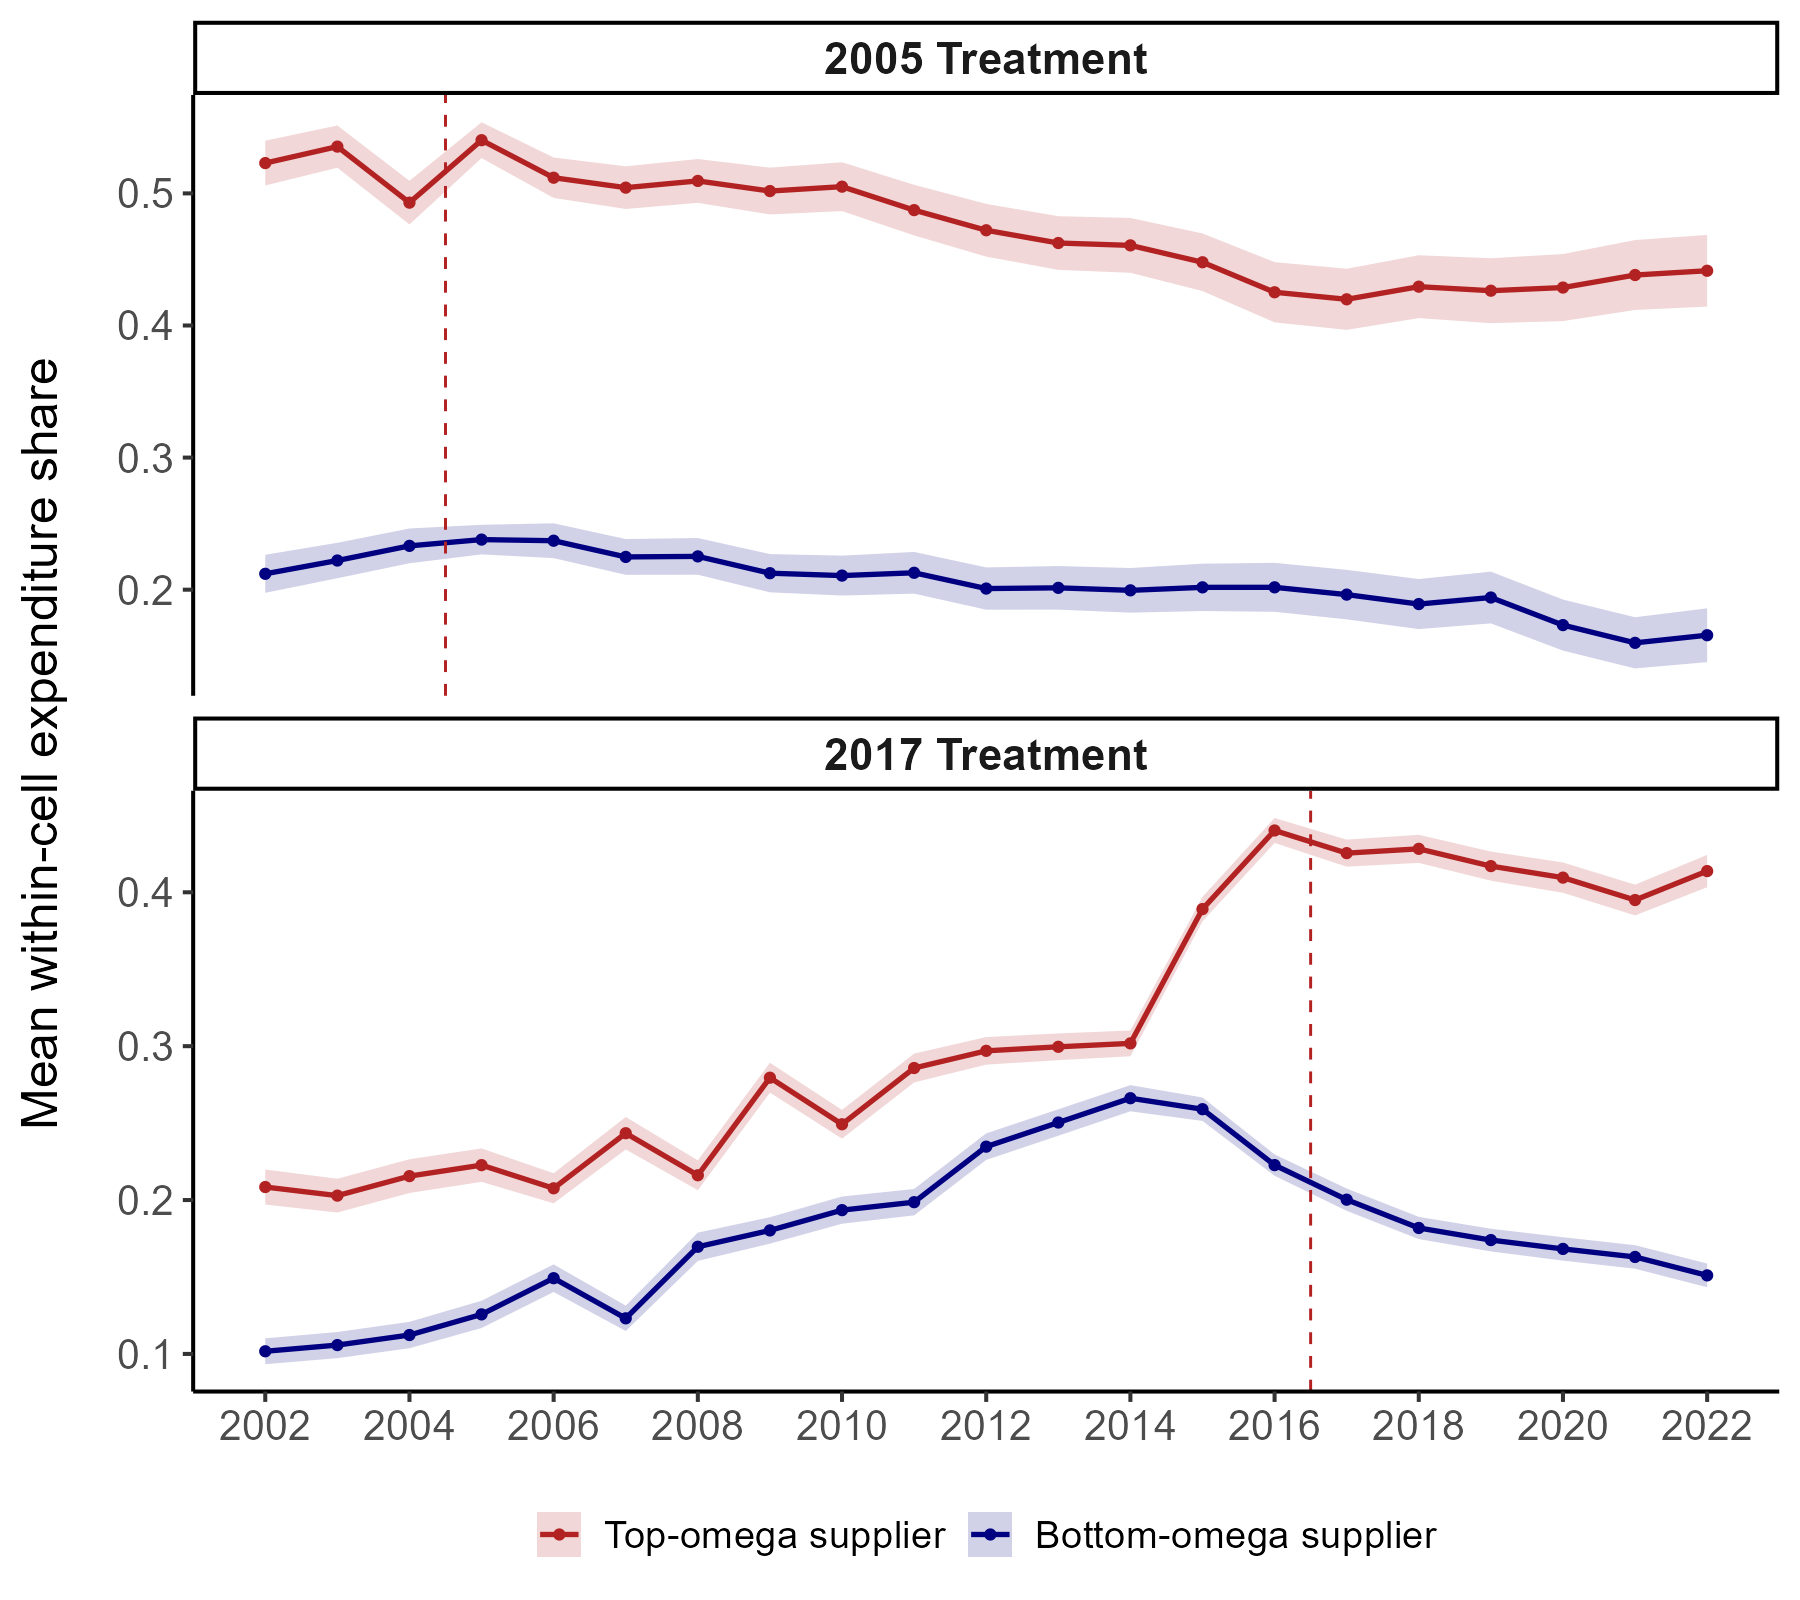
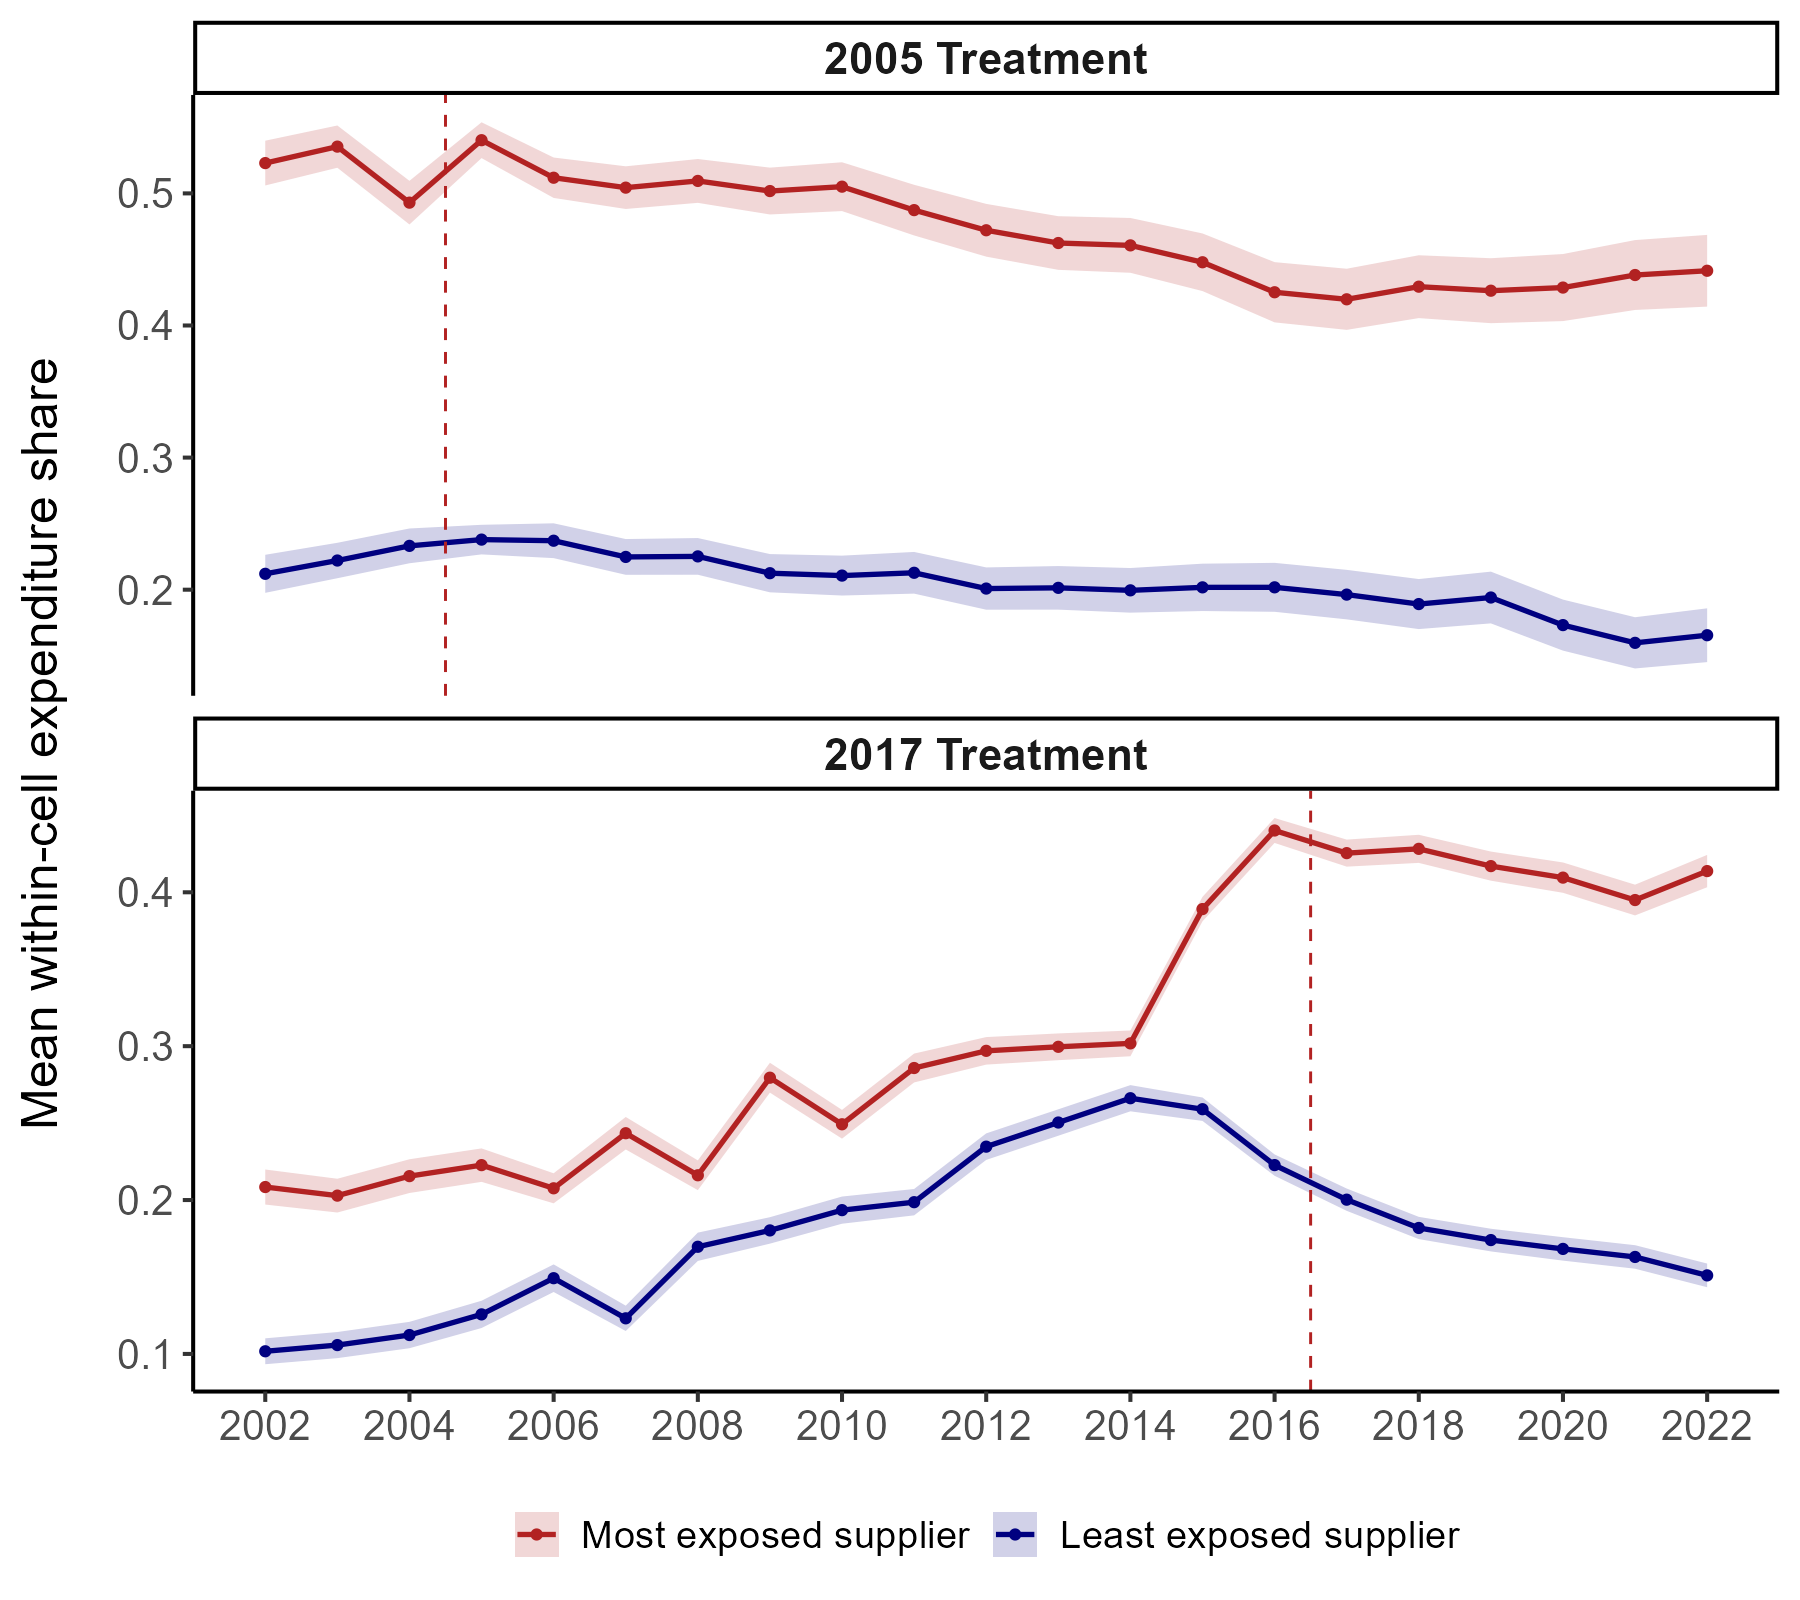
within-nace4d extensive margin

Changed region(s): [[0.28, 0.9375, 0.8089, 0.9688]]

diff --git a/output_rmd/tables/phase4_within_nace4d_extensive_mht_notes.tex b/output_rmd/tables/phase4_within_nace4d_extensive_mht_notes.tex
@@ -1,0 +1,4 @@
+% MHT notes (auto-generated by phase4_within_nace4d_extensive_did_mht.R)
+\textit{Multiple-testing correction.} Joint Wald test of the global null (all 56 coefficients $=0$): $W = 2377.12$, bootstrap $p = 0.000$ (cluster-bootstrap on buyer, $B = 500$). Romano-Wolf step-down adjusted $p$-values applied within each (omega definition, specification) family of 14 tests. Cells significant at $p < 0.05$ before correction:
+emissions classification, Cost shock (Top 10\%) (unconditional), 2005: $\hat{p}^{\mathrm{RW}} = 0.000$; emissions classification, Cost shock (Top 10\%) (size_controlled), 2005: $\hat{p}^{\mathrm{RW}} = 0.000$; emissions classification, Cost shock (Top 10\%) (unconditional), 2017: $\hat{p}^{\mathrm{RW}} = 0.000$; emissions classification, Cost shock (Top 10\%) (size_controlled), 2017: $\hat{p}^{\mathrm{RW}} = 0.008$; emissions classification, Cost shock (Top 25\%) (unconditional), 2005: $\hat{p}^{\mathrm{RW}} = 0.000$; emissions classification, Cost shock (Top 25\%) (size_controlled), 2005: $\hat{p}^{\mathrm{RW}} = 0.000$; emissions classification, Cost shock (Top 25\%) (unconditional), 2017: $\hat{p}^{\mathrm{RW}} = 0.000$; emissions classification, Cost shock (Top 25\%) (size_controlled), 2017: $\hat{p}^{\mathrm{RW}} = 0.000$; emissions classification, Exposure gap (Top 10\%) (unconditional), 2005: $\hat{p}^{\mathrm{RW}} = 0.000$; emissions classification, Exposure gap (Top 10\%) (unconditional), 2017: $\hat{p}^{\mathrm{RW}} = 0.000$; emissions classification, Exposure gap (Top 10\%) (size_controlled), 2017: $\hat{p}^{\mathrm{RW}} = 0.006$; emissions classification, Exposure gap (Top 25\%) (unconditional), 2005: $\hat{p}^{\mathrm{RW}} = 0.006$; emissions classification, Input share (Top 10\%) (unconditional), 2005: $\hat{p}^{\mathrm{RW}} = 0.000$; emissions classification, Input share (Top 10\%) (size_controlled), 2005: $\hat{p}^{\mathrm{RW}} = 0.000$; emissions classification, Input share (Top 10\%) (unconditional), 2017: $\hat{p}^{\mathrm{RW}} = 0.000$; emissions classification, Input share (Top 10\%) (size_controlled), 2017: $\hat{p}^{\mathrm{RW}} = 0.004$; emissions classification, Input share (Top 25\%) (unconditional), 2005: $\hat{p}^{\mathrm{RW}} = 0.000$; emissions classification, Input share (Top 25\%) (size_controlled), 2005: $\hat{p}^{\mathrm{RW}} = 0.000$; emissions classification, Input share (Top 25\%) (unconditional), 2017: $\hat{p}^{\mathrm{RW}} = 0.000$; emissions classification, Input share (Top 25\%) (size_controlled), 2017: $\hat{p}^{\mathrm{RW}} = 0.000$; emissions classification, Pooled (size_controlled), 2005: $\hat{p}^{\mathrm{RW}} = 0.006$; emissions classification, Pooled (unconditional), 2017: $\hat{p}^{\mathrm{RW}} = 0.000$; emissions classification, Pooled (size_controlled), 2017: $\hat{p}^{\mathrm{RW}} = 0.000$; shortage classification, Cost shock (Top 10\%) (unconditional), 2005: $\hat{p}^{\mathrm{RW}} = 0.018$; shortage classification, Cost shock (Top 10\%) (unconditional), 2017: $\hat{p}^{\mathrm{RW}} = 0.000$; shortage classification, Cost shock (Top 10\%) (size_controlled), 2017: $\hat{p}^{\mathrm{RW}} = 0.000$; shortage classification, Cost shock (Top 25\%) (unconditional), 2005: $\hat{p}^{\mathrm{RW}} = 0.062$; shortage classification, Cost shock (Top 25\%) (unconditional), 2017: $\hat{p}^{\mathrm{RW}} = 0.000$; shortage classification, Cost shock (Top 25\%) (size_controlled), 2017: $\hat{p}^{\mathrm{RW}} = 0.000$; shortage classification, Exposure gap (Top 10\%) (unconditional), 2005: $\hat{p}^{\mathrm{RW}} = 0.000$; shortage classification, Exposure gap (Top 10\%) (size_controlled), 2005: $\hat{p}^{\mathrm{RW}} = 0.006$; shortage classification, Exposure gap (Top 10\%) (unconditional), 2017: $\hat{p}^{\mathrm{RW}} = 0.000$; shortage classification, Exposure gap (Top 10\%) (size_controlled), 2017: $\hat{p}^{\mathrm{RW}} = 0.000$; shortage classification, Exposure gap (Top 25\%) (unconditional), 2005: $\hat{p}^{\mathrm{RW}} = 0.000$; shortage classification, Exposure gap (Top 25\%) (size_controlled), 2005: $\hat{p}^{\mathrm{RW}} = 0.000$; shortage classification, Exposure gap (Top 25\%) (unconditional), 2017: $\hat{p}^{\mathrm{RW}} = 0.000$; shortage classification, Exposure gap (Top 25\%) (size_controlled), 2017: $\hat{p}^{\mathrm{RW}} = 0.000$; shortage classification, Input share (Top 10\%) (unconditional), 2005: $\hat{p}^{\mathrm{RW}} = 0.062$; shortage classification, Input share (Top 10\%) (unconditional), 2017: $\hat{p}^{\mathrm{RW}} = 0.000$; shortage classification, Input share (Top 10\%) (size_controlled), 2017: $\hat{p}^{\mathrm{RW}} = 0.000$; shortage classification, Input share (Top 25\%) (unconditional), 2017: $\hat{p}^{\mathrm{RW}} = 0.000$; shortage classification, Input share (Top 25\%) (size_controlled), 2017: $\hat{p}^{\mathrm{RW}} = 0.000$; shortage classification, Pooled (unconditional), 2017: $\hat{p}^{\mathrm{RW}} = 0.000$; shortage classification, Pooled (size_controlled), 2017: $\hat{p}^{\mathrm{RW}} = 0.000$
+.

diff --git a/output_rmd/tables/phase4_within_nace4d_extensive_did_table_combined.tex b/output_rmd/tables/phase4_within_nace4d_extensive_did_table_combined.tex
@@ -1,0 +1,13 @@
+% Requires \usepackage{makecell,booktabs} in main.tex
+% Size-controlled extensive-margin DiD with Romano-Wolf adjusted significance.
+\begin{tabular}{lccccccc}
+\toprule
+ & & \multicolumn{2}{c}{Cost shock} & \multicolumn{2}{c}{Input share} & \multicolumn{2}{c}{Exposure gap} \\
+\cmidrule(lr){3-4}\cmidrule(lr){5-6}\cmidrule(lr){7-8}
+Treatment & Pooled & Top 25\% & Top 10\% & Top 25\% & Top 10\% & Top 25\% & Top 10\% \\
+\midrule
+2005 & \makecell{-0.006 \\ \footnotesize{(0.012)} \\ \footnotesize{N=2,293}} & \makecell{-0.012 \\ \footnotesize{(0.034)} \\ \footnotesize{N=573}} & \makecell{-0.096 \\ \footnotesize{(0.054)} \\ \footnotesize{N=229}} & \makecell{0.024 \\ \footnotesize{(0.031)} \\ \footnotesize{N=573}} & \makecell{-0.028 \\ \footnotesize{(0.053)} \\ \footnotesize{N=229}} & \makecell{-0.095$^{***}$ \\ \footnotesize{(0.026)} \\ \footnotesize{N=655}} & \makecell{-0.107$^{**}$ \\ \footnotesize{(0.033)} \\ \footnotesize{N=442}} \\\addlinespace
+2017 & \makecell{0.112$^{***}$ \\ \footnotesize{(0.006)} \\ \footnotesize{N=9,323}} & \makecell{0.153$^{***}$ \\ \footnotesize{(0.014)} \\ \footnotesize{N=2,327}} & \makecell{0.121$^{***}$ \\ \footnotesize{(0.022)} \\ \footnotesize{N=931}} & \makecell{0.072$^{***}$ \\ \footnotesize{(0.012)} \\ \footnotesize{N=2,327}} & \makecell{0.085$^{***}$ \\ \footnotesize{(0.021)} \\ \footnotesize{N=931}} & \makecell{0.193$^{***}$ \\ \footnotesize{(0.008)} \\ \footnotesize{N=4,253}} & \makecell{0.194$^{***}$ \\ \footnotesize{(0.017)} \\ \footnotesize{N=933}} \\\addlinespace
+\bottomrule
+\end{tabular}
+% Notes: Size-controlled within-cell extensive-margin DiD (LPM with outcome = $\mathbf{1}\{\text{sales}_{ijt}>0\}$; cell-role FE + year FE + year $\times$ log(pre-period sales) interaction). Cluster-robust SE in parentheses (cluster = buyer $\times$ NACE4d cell). Stars use Romano-Wolf step-down adjusted $p$-values from a cluster-bootstrap on buyer with $B = 500$ replicates, applied within the 14-test shortage family. Significance: $^{\dagger}\,p^{\mathrm{RW}}<0.10$, $^{*}\,p^{\mathrm{RW}}<0.05$, $^{**}\,p^{\mathrm{RW}}<0.01$, $^{***}\,p^{\mathrm{RW}}<0.001$.

diff --git a/output_rmd/tables/phase4_within_nace4d_extensive_DiD_coefs.tex b/output_rmd/tables/phase4_within_nace4d_extensive_DiD_coefs.tex
@@ -1,5 +1,5 @@
 % latex table generated in R 4.4.1 by xtable 1.8-4 package
-% Sun May 10 21:07:50 2026
+% Fri May 15 16:44:49 2026
 \begin{table}[ht]
 \centering
 \caption{Extensive-margin DiD on supplier survival (top-omega vs bottom-omega).} 
@@ -7,9 +7,8 @@
   \toprule
 version & n\\_obs & n\\_treated\\_cells & term & estimate & std\\_error & t\\_stat & p\\_value \\ 
   \midrule
-treat\\_2008 & 162540 &  4515 & post::1:top & 0.0317 & 0.0068 & 4.6417 & 0.0000 \\ 
-  treat\\_2013 & 29268 &   813 & post::1:top & -0.0320 & 0.0172 & -1.8584 & 0.0635 \\ 
-  treat\\_2017 & 297900 &  8275 & post::1:top & 0.1236 & 0.0058 & 21.4117 & 0.0000 \\ 
+treat\\_2005 & 96306 &  2293 & post::1:top & 0.0240 & 0.0108 & 2.2260 & 0.0261 \\ 
+  treat\\_2017 & 347550 &  8275 & post::1:top & 0.1091 & 0.0057 & 19.1297 & 0.0000 \\ 
    \bottomrule
 \end{tabular}
 \end{table}
